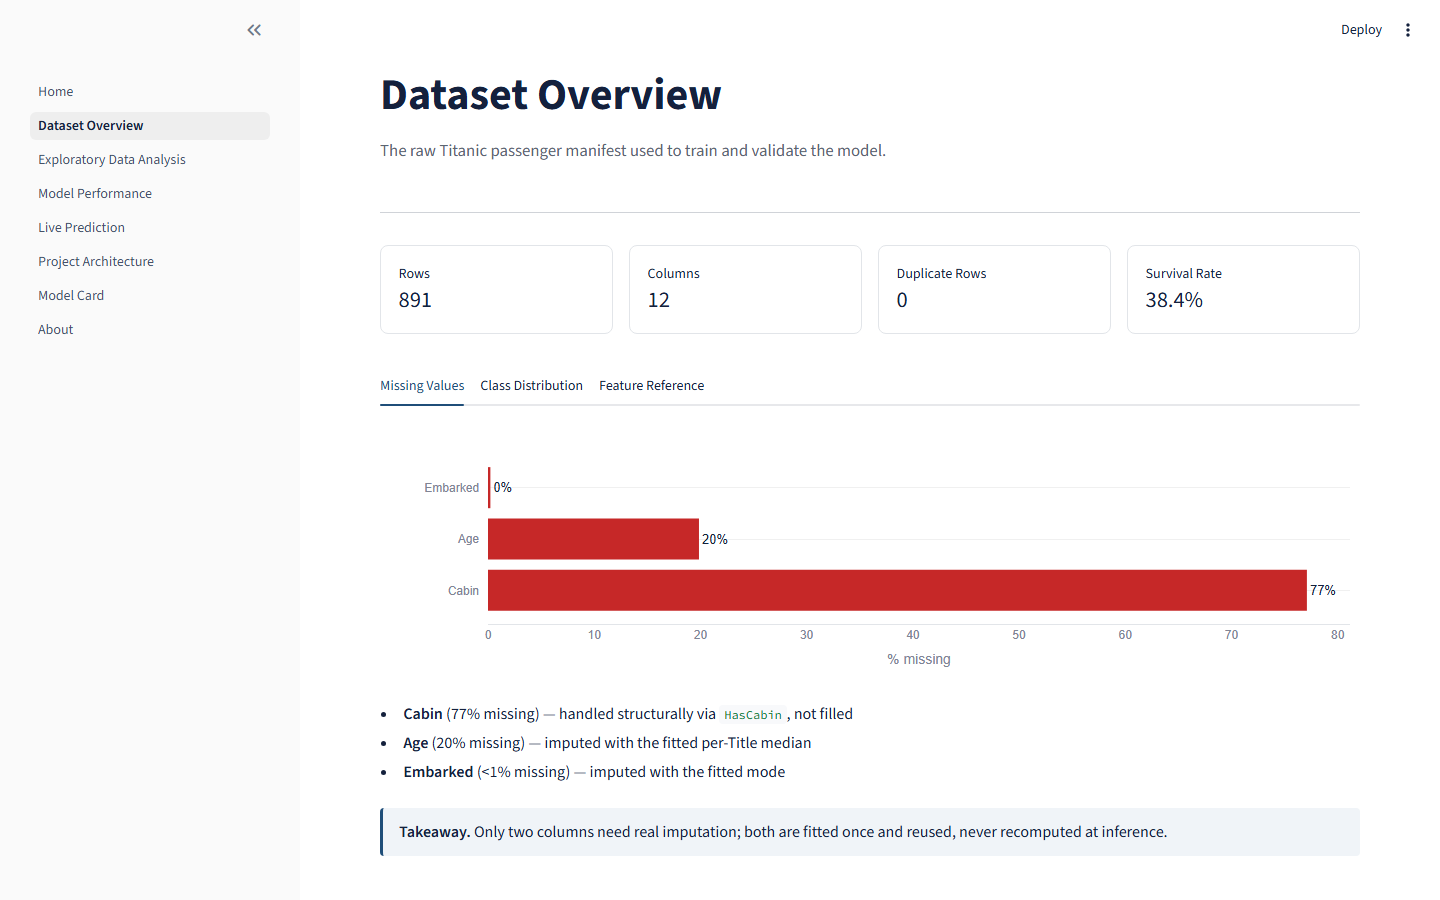
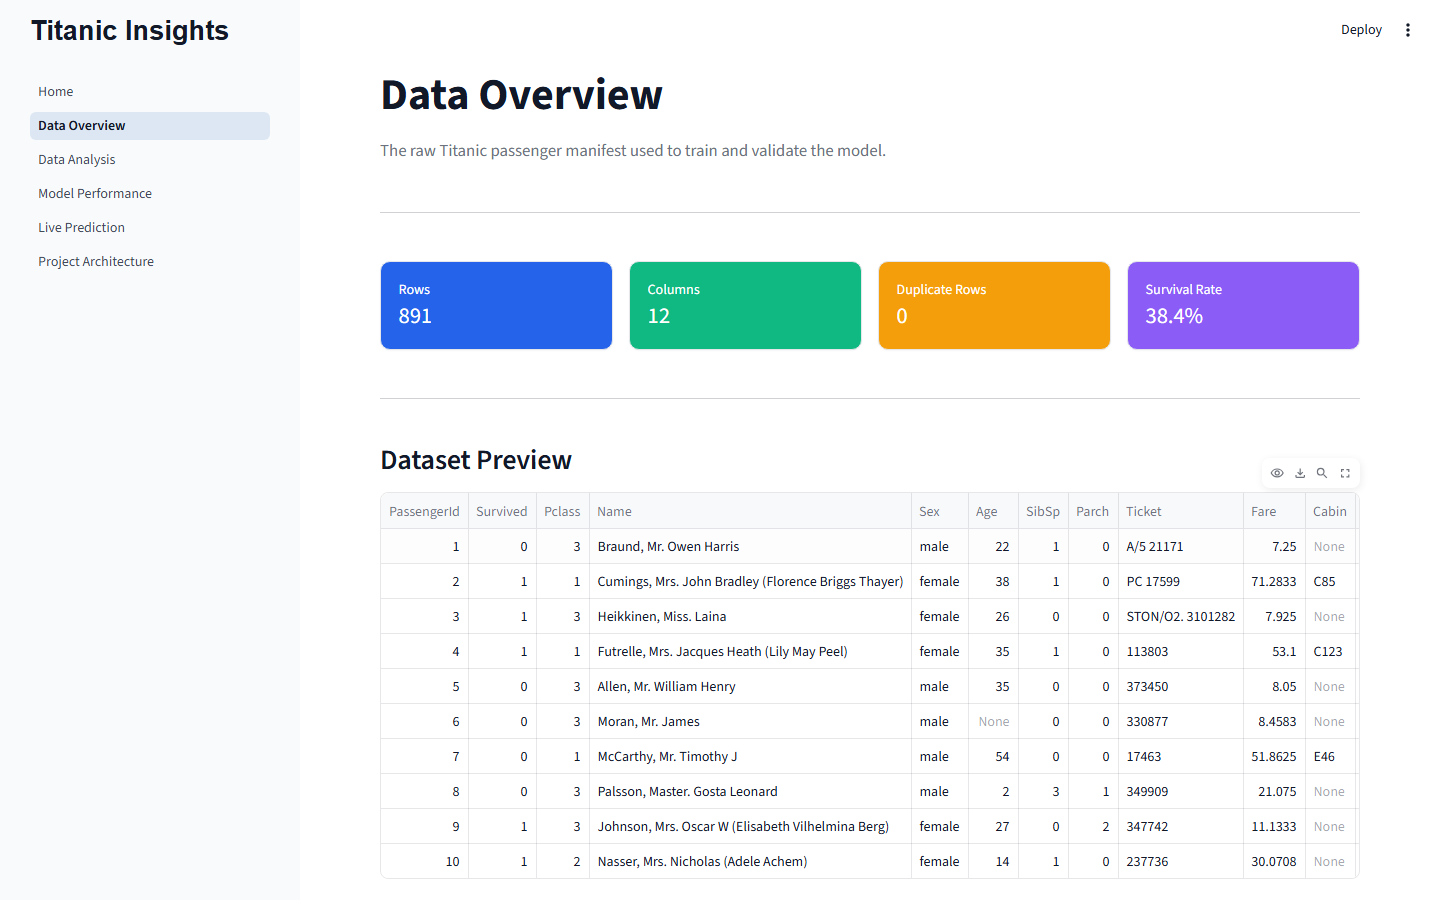
update README + screenshots

diff --git a/README.md b/README.md
@@ -28,7 +28,7 @@ lifecycle: a leakage-safe preprocessing pipeline, a production feature
 schema chosen by VIF and mutual-information evidence rather than
 intuition, a controlled comparison across four models, and a deployment
 plan that upgrades the model without breaking the live API. The system
-ships as a versioned FastAPI service, an 8-page Streamlit dashboard, and
+ships as a versioned FastAPI service, a 6-page Streamlit dashboard, and
 a Docker/EC2 deployment path, backed by 76 automated tests and a CI
 pipeline that rebuilds and validates every artifact on every push.
 
@@ -42,7 +42,7 @@ pipeline that rebuilds and validates every artifact on every push.
 - [x] FastAPI service — validated request/response contracts
 - [x] Dockerized deployment — versioned images, no assumed downtime
 - [x] AWS EC2 hosting — documented rollback runbook
-- [x] 8-page Streamlit dashboard — architecture, model card, live prediction
+- [x] 6-page Streamlit dashboard — architecture, live prediction, decision support
 - [x] Versioned artifacts — model, preprocessing, and schema paired and checked
 - [x] CI/CD — lint, rebuild artifacts, verify versions, test, on every push
 
@@ -126,7 +126,7 @@ Titanic-End-to-End/
 ├── analysis/          Reproducible stage scripts (data audit, model comparison)
 ├── api/               FastAPI service — schemas.py, main.py
 ├── artifacts/         Versioned preprocessing + feature schema
-├── dashboard/         8-page Streamlit application
+├── dashboard/         6-page Streamlit application
 ├── docs/              Diagrams and dashboard screenshots (this README's assets)
 ├── data/              Raw Titanic dataset
 ├── model/             model_v1.pkl, model_v2.pkl, train.py, train_v2.py
@@ -187,6 +187,12 @@ Interactive docs at `/docs` once the API is running.
 6 pages: Home, Data Overview, Data Analysis, Model Performance, Live
 Prediction, Project Architecture. Every chart and metric is computed
 live from the versioned artifacts — nothing is hardcoded.
+
+Every major chart carries a collapsed "What This Means" panel: what the
+chart shows, why it matters, and what engineering decision it drove.
+Live Prediction goes further, decomposing a single passenger's prediction
+into signed feature contributions, counterfactuals, and similar historical
+cases, all computed from the model's own coefficients — no SHAP dependency.
 
 ## Testing & CI
 
